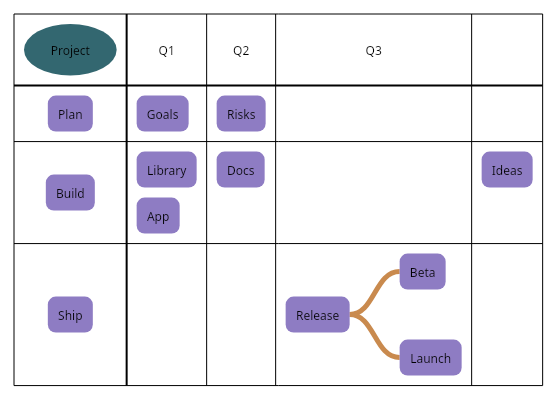
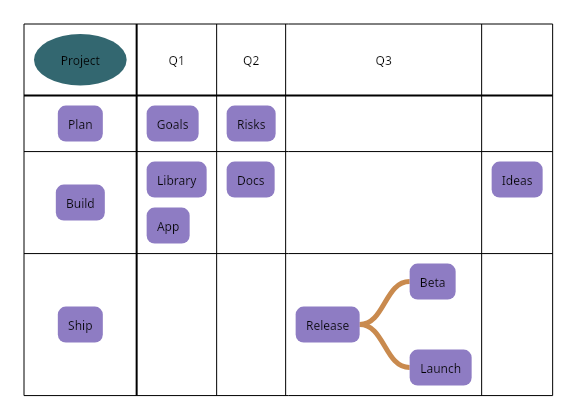
feat: a grid is drawn as its cells, in place of the lines to its topics, and exports take in every table whole

Changed region(s): [[0.0, 0.03, 0.9767, 0.96], [0.6409, 0.12, 0.702, 0.18], [0.2747, 0.12, 0.3357, 0.15]]

diff --git a/library/src/commonTest/kotlin/com/mindsync/library/GridDrawTest.kt b/library/src/commonTest/kotlin/com/mindsync/library/GridDrawTest.kt
@@ -1,0 +1,71 @@
+package com.mindsync.library
+
+import androidx.compose.foundation.layout.size
+import androidx.compose.ui.Modifier
+import androidx.compose.ui.test.ComposeUiTest
+import androidx.compose.ui.test.ExperimentalTestApi
+import androidx.compose.ui.test.v2.runComposeUiTest
+import androidx.compose.ui.unit.Density
+import androidx.compose.ui.unit.dp
+import com.mindsync.library.data.Tree
+import com.mindsync.library.model.MapStructure
+import com.mindsync.library.util.Dp
+import kotlin.test.Test
+import kotlin.test.assertEquals
+import kotlin.test.assertNotNull
+import kotlin.test.assertTrue
+
+@OptIn(ExperimentalTestApi::class)
+class GridDrawTest {
+    // Research with Users and Size below it, and Build with App (and iOS below that) and API.
+    private fun tree(structure: MapStructure): Tree<Any> = Tree<Any>(Dp(400f), Dp(300f)).apply {
+        val rootId = getRootNode().id
+        addNode("research", rootId, "Research")
+        addNode("users", "research", "Users")
+        addNode("size", "research", "Size")
+        addNode("build", rootId, "Build")
+        addNode("app", "build", "App")
+        addNode("ios", "app", "iOS")
+        addNode("api", "build", "API")
+        this.structure = structure
+    }
+
+    private fun ComposeUiTest.shown(tree: Tree<Any>): MindMapState {
+        val state = MindMapState(tree)
+        setContent { MindMap(state = state, modifier = Modifier.size(800.dp, 600.dp)) }
+        state.animateTreeChange()
+        waitForIdle()
+        return state
+    }
+
+    private fun String.pathCount() = Regex("<path").findAll(this).count()
+
+    @Test
+    fun cellsAreDrawnInPlaceOfTheLinesToTheMainTopicsAndToWhatIsBelowThem() {
+        var logic = ""
+        var grid = ""
+        var tableLines = 0
+        runComposeUiTest { logic = assertNotNull(shown(tree(MapStructure.LOGIC_RIGHT)).exportSvg()) }
+        runComposeUiTest {
+            val state = shown(tree(MapStructure.GRID))
+            tableLines = assertNotNull(state.mindMapManager.tableCellsOf(state.tree.getRootNode())).lines.size
+            grid = assertNotNull(state.exportSvg())
+        }
+
+        // Across: the header's top, the rule under it, the edge between the cells' parts and the bottom. Down: the
+        // two sides and the edge between the two cells.
+        assertEquals(7, tableLines)
+        // Of the seven lines, only App's to iOS is left.
+        assertEquals(logic.pathCount() - 6 + tableLines, grid.pathCount())
+    }
+
+    @Test
+    fun exportTakesInTheWholeGrid() = runComposeUiTest {
+        val state = shown(tree(MapStructure.GRID))
+        val cells = assertNotNull(state.mindMapManager.tableCellsOf(state.tree.getRootNode())).bounds
+
+        val bounds = with(Density(1f)) { exportBounds(state.tree, state.mindMapManager.tableBounds()) }
+        assertTrue(bounds.left < cells.left && bounds.right > cells.right)
+        assertTrue(bounds.top < cells.top && bounds.bottom > cells.bottom)
+    }
+}

diff --git a/library/src/jvmTest/kotlin/com/mindsync/library/ThemeDrawingTest.kt b/library/src/jvmTest/kotlin/com/mindsync/library/ThemeDrawingTest.kt
@@ -185,6 +185,49 @@ class ThemeDrawingTest {
         assertTrue(differing <= image.width * image.height / 200, "$differing pixels differ")
     }
 
+    // A launch plan as a grid of three columns: five main topics, a summary in a cell and one below the grid.
+    private fun launchPlan(): Tree<Any> = Tree<Any>().apply {
+        val root = getRootNode()
+        setRootNode(root.copy(description = "<p>Launch plan</p>"))
+        addNode("Research", root.id, "Research")
+        addNode("Users", "Research", "Talk to users")
+        addNode("Market", "Research", "Market size")
+        addNode("Build", root.id, "Build")
+        addNode("App", "Build", "App")
+        addNode("iOS", "App", "iOS")
+        addNode("API", "Build", "API")
+        addNode("Core", "Build", "Core")
+        setSummary("Core", setOf("App", "API"))
+        addNode("Marketing", root.id, "Marketing")
+        addNode("Site", "Marketing", "Web site")
+        addNode("Sales", root.id, "Sales")
+        addNode("Support", root.id, "Support")
+        addNode("Docs", "Support", "Docs")
+        addNode("Everything", root.id, "Everything")
+        setSummary("Everything", setOf("Research", "Support"))
+        setGridColumns(root.id, 3)
+        structure = MapStructure.GRID
+    }
+
+    @Test
+    fun launchPlanGridLooksAsBefore() = runComposeUiTest {
+        val golden: BufferedImage = ImageIO.read(File("src/jvmTest/resources/grid-plan.png"))
+        val state = shownState(launchPlan())
+
+        val image = assertNotNull(state.exportImage(pixelsPerDp = 1f)).toAwtImage()
+
+        assertEquals(golden.width, image.width)
+        assertEquals(golden.height, image.height)
+        var differing = 0
+        for (y in 0 until image.height) for (x in 0 until image.width) {
+            val a = golden.getRGB(x, y)
+            val b = image.getRGB(x, y)
+            val isDifferent = listOf(0, 8, 16, 24).any { shift -> abs((a shr shift and 0xFF) - (b shr shift and 0xFF)) > 8 }
+            if (isDifferent) differing++
+        }
+        assertTrue(differing <= image.width * image.height / 200, "$differing pixels differ")
+    }
+
     @Test
     fun oceanColorsTheNodes() = runComposeUiTest {
         val state = shownState(treeWithChildren())

diff --git a/library/src/commonMain/kotlin/com/mindsync/library/MapImage.kt b/library/src/commonMain/kotlin/com/mindsync/library/MapImage.kt
@@ -13,6 +13,7 @@ import androidx.compose.ui.graphics.drawscope.translate
 import androidx.compose.ui.unit.Density
 import androidx.compose.ui.unit.LayoutDirection
 import com.mindsync.library.data.Tree
+import com.mindsync.library.layout.CellRect
 import com.mindsync.library.layout.MeasureTextSize
 import com.mindsync.library.layout.drawnBoundaries
 import com.mindsync.library.model.DrawInfo
@@ -37,7 +38,7 @@ internal fun mapImage(
     , pixelsPerDp: Float
     , maxSide: Int
 ): ImageBitmap {
-    val bounds = density.exportBounds(state.tree)
+    val bounds = density.exportBounds(state.tree, state.mindMapManager.tableBounds())
     val scale = min(pixelsPerDp / density.density, maxSide / max(bounds.width, bounds.height))
     val width = (bounds.width * scale).roundToInt().coerceAtLeast(1)
     val height = (bounds.height * scale).roundToInt().coerceAtLeast(1)
@@ -68,10 +69,13 @@ internal fun DrawScope.drawExportedMap(
     }
 }
 
-// What the nodes that are shown, their arrow links and their boundaries take up, in the pixels of the tree, with
-// room around them.
+// What the nodes that are shown, their arrow links, their boundaries and the [tables] they are in, in dp, take up, in
+// the pixels of the tree, with room around them.
 // A curve stays within its control points, so they are what an arrow link takes up at most.
-internal fun Density.exportBounds(tree: Tree<*>): Rect {
+internal fun Density.exportBounds(
+    tree: Tree<*>
+    , tables: List<CellRect> = emptyList()
+): Rect {
     var bounds = Rect.Zero
     var isEmpty = true
     fun add(rect: Rect) {
@@ -88,6 +92,10 @@ internal fun Density.exportBounds(tree: Tree<*>): Rect {
         listOf(curve.start, curve.startControl, curve.endControl, curve.end).forEach { add(Rect(it, it)) }
     }
     drawnBoundaries(tree).forEach { (_, rect) -> add(rect) }
+    tables.forEach { table ->
+        val topLeft = Offset(Dp(table.left).toPx(this), Dp(table.top).toPx(this))
+        add(Rect(topLeft, Offset(Dp(table.right).toPx(this), Dp(table.bottom).toPx(this))))
+    }
     return bounds.inflate(IMAGE_MARGIN.toPx(this))
 }
 

diff --git a/library/src/commonMain/kotlin/com/mindsync/library/MindMap.kt b/library/src/commonMain/kotlin/com/mindsync/library/MindMap.kt
@@ -796,7 +796,8 @@ private fun DrawScope.drawMatrixHeaders(
 }
 
 // Whether the line from [parent] to [child] is one a table shows by its cells instead. In a matrix, those are from its
-// topic to its rows, and from a row to the topics in its cells; in a tree table, all of those between its topics.
+// topic to its rows, and from a row to the topics in its cells; in a tree table, all of those between its topics; and
+// in a grid, those from its topic to its main topics, and from each of those to the topics below it in its cell.
 private fun isTableLine(
     tree: Tree<*>
     , parent: NodeData<*>
@@ -804,6 +805,11 @@ private fun isTableLine(
 ): Boolean {
     if (tree.isSummary(child.id) || tree.isFloating(child.id)) return false
     if (tree.structureOf(parent.id) == MapStructure.TREE_TABLE) return isInTreeTable(tree, parent)
+    if (tree.structureOf(parent.id) == MapStructure.GRID) {
+        val ownerId = tree.structureOwnerOf(parent.id)
+        return parent.id == ownerId ||
+            (parent.parentId == ownerId && !tree.isSummary(parent.id) && !tree.isFloating(parent.id))
+    }
     fun isMatrixOwner(node: NodeData<*>) =
         tree.structureOf(node.id).isMatrix && tree.structureOwnerOf(node.id) == node.id
     if (isMatrixOwner(parent)) return true

diff --git a/library/src/skikoMain/kotlin/com/mindsync/library/MapSvg.skiko.kt b/library/src/skikoMain/kotlin/com/mindsync/library/MapSvg.skiko.kt
@@ -17,7 +17,7 @@ internal actual fun mapSvg(
     , density: Density
     , measureTextSize: MeasureTextSize
 ): String? {
-    val bounds = density.exportBounds(state.tree)
+    val bounds = density.exportBounds(state.tree, state.mindMapManager.tableBounds())
     val scale = 1f / density.density
     val width = bounds.width * scale
     val height = bounds.height * scale

diff --git a/docs/superpowers/plans/2026-11-19-tree-table-and-grid.md b/docs/superpowers/plans/2026-11-19-tree-table-and-grid.md
@@ -103,10 +103,10 @@ Each phase can ship on its own.
 | "Lowest level right-aligned" | A leaf above the deepest level stretches its cell to the right edge, with the topic at the right of the cell, so all leaves end in the last column. To confirm in F1. |
 | Vertical alignment in a spanning cell | Top, as an outline reads, with the matrix's padding. |
 | Grid's owner | A header cell across the full width, at the top, as in the tree table. |
-| Grid's main topics | Cells in reading order, a set number to a row, each holding its subtopics stacked below it. Rows of main topics wrap, as in a card layout. |
+| Grid's main topics | Cells in reading order, a set number to a row, each with its main topic above the topics below it, laid out as a logic chart. Rows of main topics wrap, as in a card layout. |
 | Grid's column count | Per owner, default "all in one row, at most 4", set from 1 to 8 in the app (Edit › Grid Columns, and a topic's menu for a branch). Changing it is one undo step. |
 | Grid column widths | Equal, the widest cell's, so that it reads as a grid. Row heights by their tallest cell. |
-| Cells and borders | Thin lines in the map's line color, as the matrix's (`MATRIX_LINE_WIDTH`), heavier under a header. Topics keep their own shapes inside cells. |
+| Cells and borders | Thin lines in the map's line color, as the matrix's (`TABLE_LINE_WIDTH`), heavier under a header. Topics keep their own shapes inside cells. |
 | Lines | None between topics of the same table. A branch below a grid cell's subtopic, or one with its own structure, draws its own lines. |
 | Summaries | Tree table: a summary is past the table's right edge, without a cell, centered on the rows of the topics it sums, with its bracket; one beside the same rows as another is past it. Grid: a summary of main topics is a row below the grid across its width; a summary inside a cell is as in a logic chart. |
 | Boundaries | Around topics within one cell or nested cells of one parent, drawn as they are now. Not across grid cells. |
@@ -202,26 +202,42 @@ tests `MapStructureTest`, `MapStructureFilesTest`, `BranchStructureFilesTest`, `
 
 ### Task D1: The grid layout
 
-**Files:** `layout/GridLayout.kt` (new), `MindMapManager.kt`; tests `GridLayoutTest` (new)
+**Files:** `layout/GridLayout.kt` (new), `layout/TableCells.kt`, `layout/TreeTableLayout.kt`, `MindMapManager.kt`,
+`model/MapStructure.kt`, `data/Tree.kt`; tests `GridLayoutTest` (new)
 
-- [ ] The owner as a header across the top. The main topics in reading order, `gridColumnsOf(owner)` to a row, with
-  equal column widths. Each cell has its main topic at the top and its children stacked below, each branch laid out
-  → or in its own structure.
-- [ ] A summary of main topics is a row below the grid, across its width.
-- [ ] Laid out whole for a map, from `arrangeBelow` for a branch, with its box from its cells.
-- [ ] Tests:
+- [x] The owner as a header across the top. The main topics in reading order, `gridColumnsOf(owner)` to a row, or
+  as many as there are up to `GRID_DEFAULT_COLUMNS` (4), with equal column widths.
+- [x] Each cell has two parts: the main topic centered in the upper one, and the topics below it in the lower one,
+  laid out as a logic chart → of its children would be (so summaries, brackets and branches with a structure of
+  their own work as anywhere), moved to the part's top left. The parts of a row line up; a row whose main topics
+  have nothing below them has cells of one part. This replaces the heavier rule under each main topic: the edge
+  between the parts is a thin line.
+- [x] A main topic with a structure of its own has its whole branch in its cell.
+- [x] A summary of main topics is below the grid, centered on it, its branch growing down.
+- [x] Directions: the owner grows DOWN (its main topics are below it); the topics below a main topic grow RIGHT,
+  so a cell's topics are stacked by y when dragged. Main topics are dragged into reading order: a later row, or
+  further right in the same one.
+- [x] Laid out whole for a map, from `arrangeBelow` for a branch, with its box from its cells.
+- [x] A branch's topic, in a grid or a tree table, is at the end of its header nearest its parent, so the line to it
+  does not cross the table; the root's is in the middle (`tableLeftFor`).
+- [x] Tests:
   - the default count is one row of at most 4;
   - setting 2 columns wraps 5 topics into 3 rows;
-  - a cell's children are stacked below its main topic;
+  - a cell's topics are in its lower part;
   - the columns are equal;
-  - a grid branch is clear of its siblings.
+  - a grid branch is clear of its siblings;
+  - reading order when dragged.
 
 ### Task D2: Drawing the grid
 
-**Files:** `layout/GridLayout.kt`, `MindMap.kt`; tests `GridDrawTest` (new), `ThemeDrawingTest`
+**Files:** `MindMap.kt`, `MapImage.kt`, `MapSvg.skiko.kt`; tests `GridDrawTest` (new), `ThemeDrawingTest`
 
-- [ ] `cellsOf(owner)`: each cell, with a rule under its main topic. No lines from a main topic to its children.
-- [ ] A golden image, `grid-feature-tour.png`, of a plan in three columns.
+- [x] `GridCells.toCells()`: the header and each cell's parts. No lines from the owner to its main topics, nor from
+  a main topic to the topics below it.
+- [x] Exports take in each table's cells (`MindMapManager.tableBounds()`), so a grid's wide columns are not cut off.
+  Tables now get the same margin as the rest of the map: `matrix-project.png` and `tree-table-costs.png` grow by
+  the 10 dp their borders were inside it, and are otherwise unchanged.
+- [x] A golden image, `grid-plan.png`, of a launch plan in three columns.
 
 ## Phase E: The app and the docs
 
